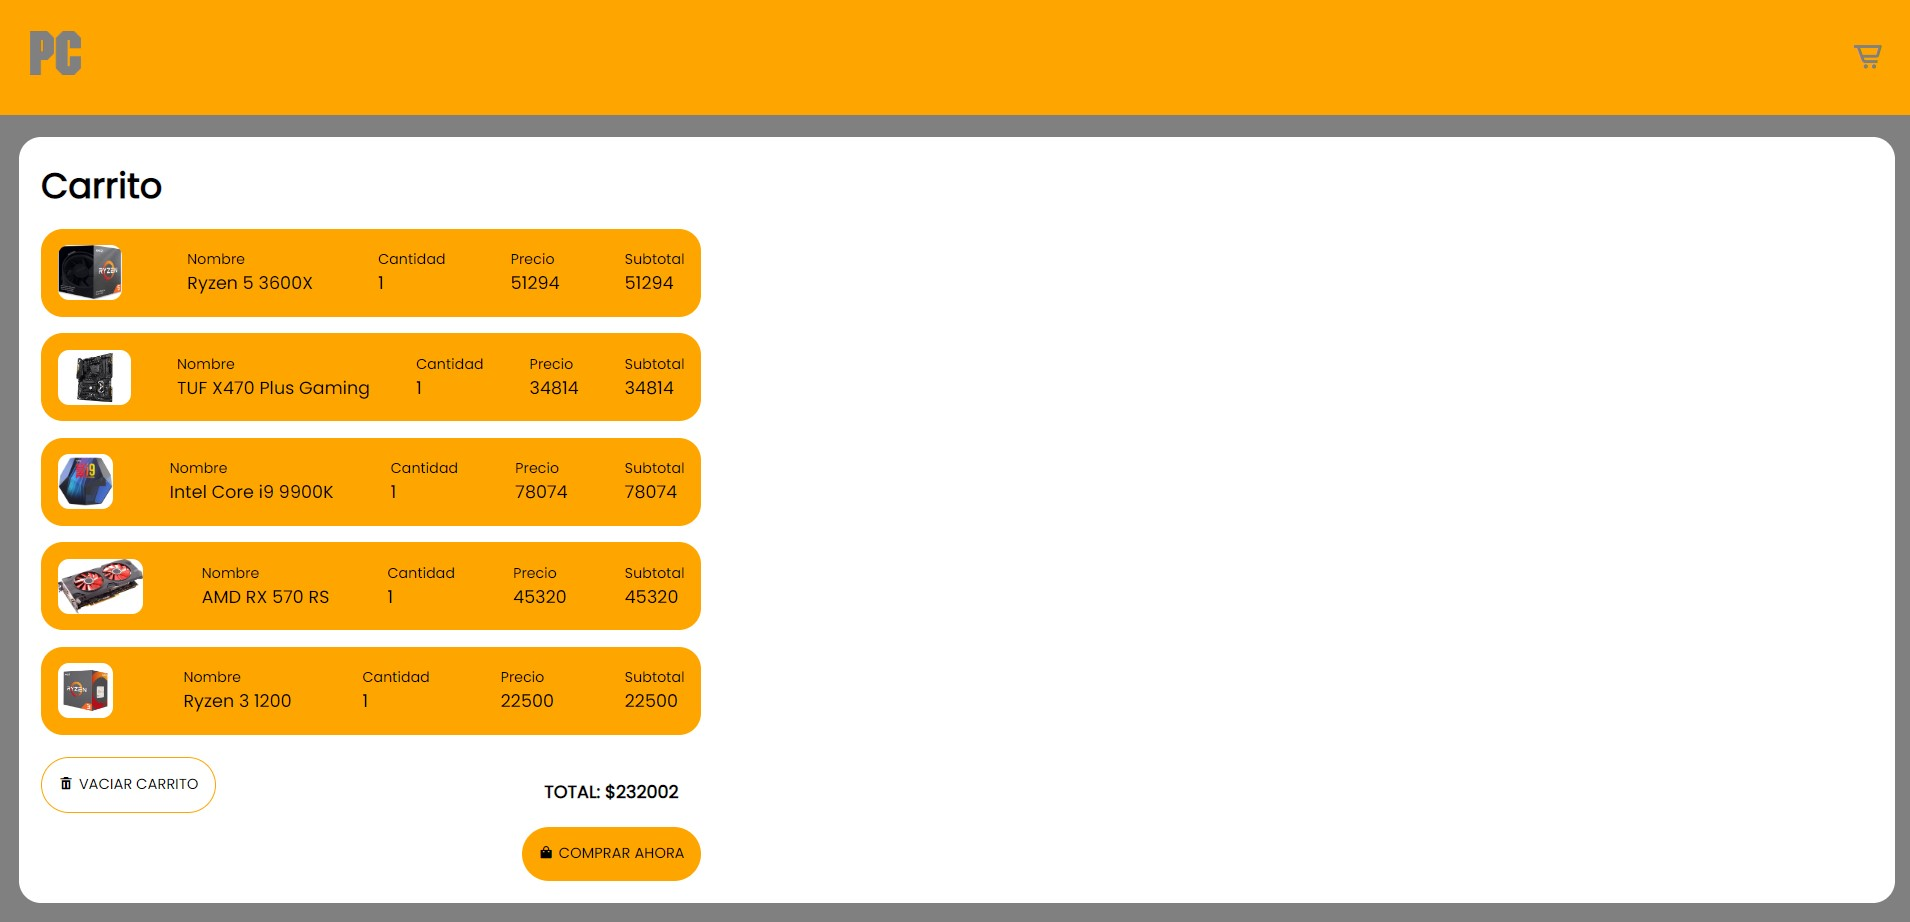
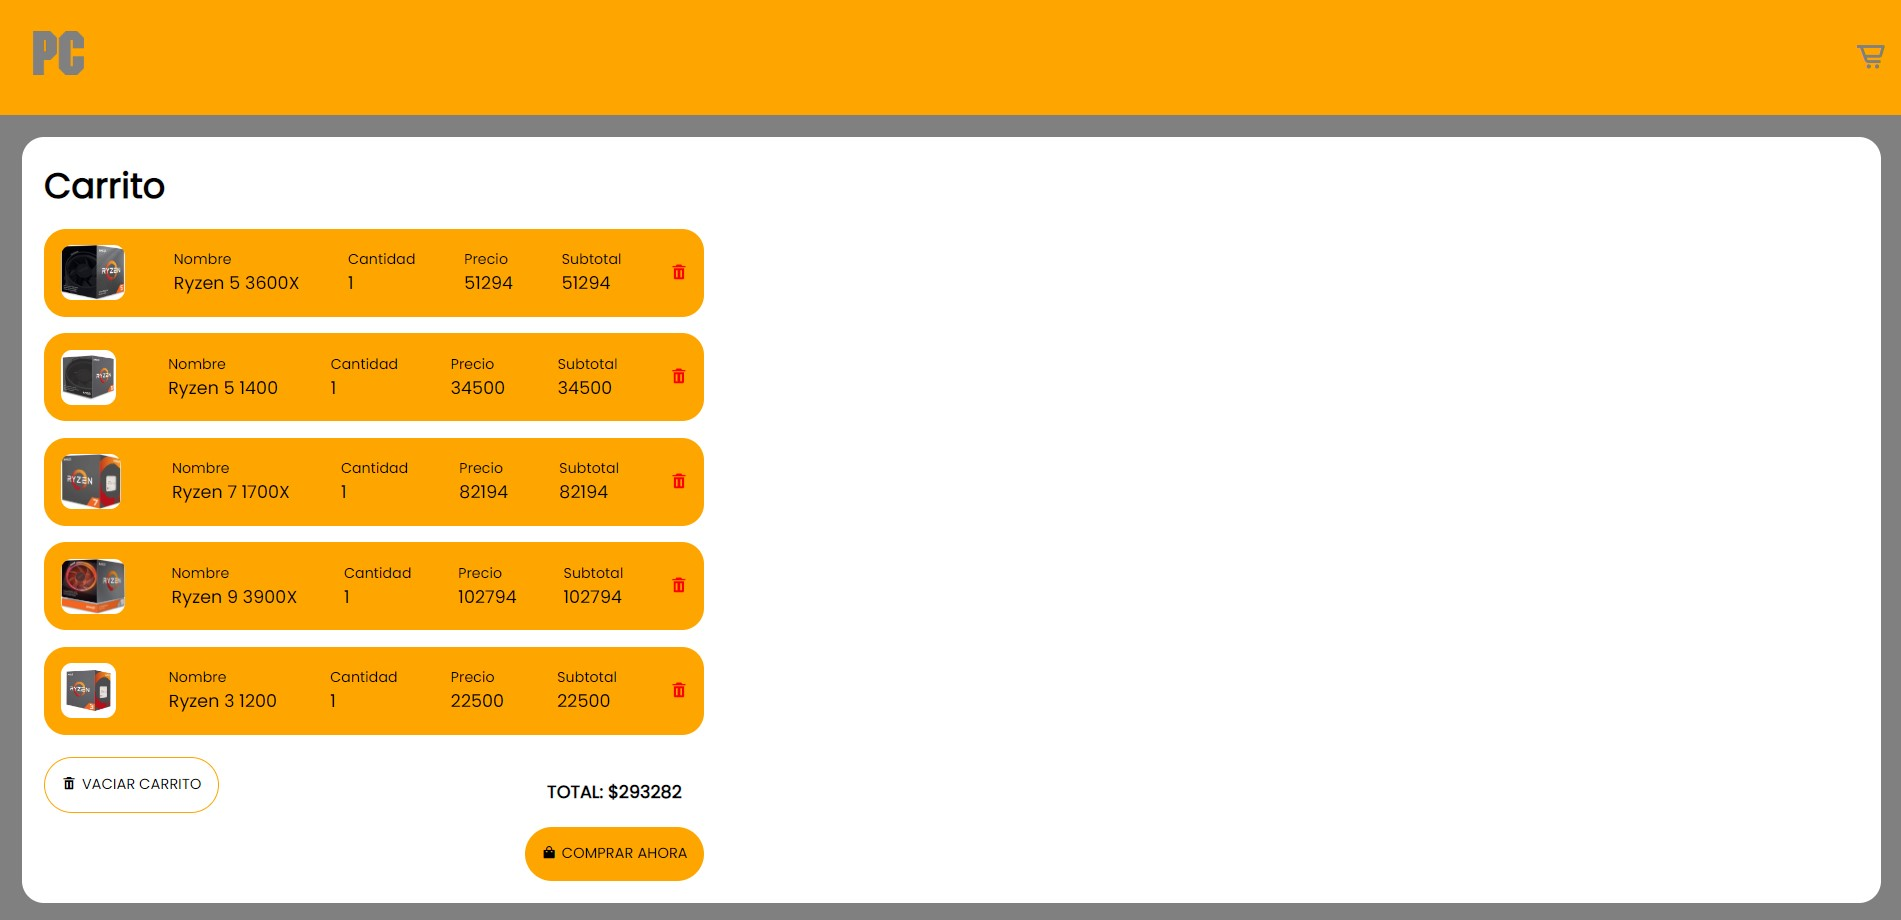
entrega final

diff --git a/js/carrito.js b/js/carrito.js
@@ -36,7 +36,8 @@ function mostrarProductosCarrito() {
             <div class="carrito-item-section">
                 <span class="section-title">Subtotal</span>
                 <span>${producto.precio * producto.cantidad}</span>
-            </div>`;
+            </div>
+            <i class='bx bxs-trash boton-eliminar' id="${producto.id}">`;
             carritoProductosDom.append(div);
         });
     } else {
@@ -45,9 +46,41 @@ function mostrarProductosCarrito() {
         carritoCompradoMensaje.classList.add("oculto")
     }
     actualizarTotal();
+    actualizarBotonesEliminar();
 }
 mostrarProductosCarrito()
 
+
+function actualizarBotonesEliminar() {
+    botonesEliminar = document.querySelectorAll(".boton-eliminar");
+    botonesEliminar.forEach(boton => {
+        boton.addEventListener("click", eliminarDelCarrito);
+    });
+}
+
+function eliminarDelCarrito(evento) {
+    Toastify({
+        text: "Producto eliminado",
+        duration: 1000,
+        newWindow: true,
+        close: false,
+        gravity: "bottom",
+        position: "right",
+        stopOnFocus: true,
+        offset: {
+            x: "25px"
+        },
+        style: {
+            background: "linear-gradient(to right, #FFA500, #f7b945)",
+        },
+        onClick: function(){} // Callback after click
+    }).showToast();
+    const id = evento.target.getAttribute("id");
+    const index = productosEnCarrito.findIndex(producto => producto.id === id);
+    productosEnCarrito.splice(index, 1);
+    localStorage.setItem("carrito", JSON.stringify(productosEnCarrito));
+    mostrarProductosCarrito();
+}
 
 function actualizarTotal() {
     const totalCalculado = productosEnCarrito.reduce((acc, producto) => acc + (producto.precio * producto.cantidad), 0);
@@ -57,10 +90,10 @@ function actualizarTotal() {
 vaciarCarritoBoton.addEventListener("click", vaciarCarrito)
 function vaciarCarrito() {
     Swal.fire({
-        title: 'Estas seguro?',
+        title: '¿Estas seguro?',
         icon: 'question',
         html:
-          'Se van a borrar todos tus productos.',
+          `Se van a borrar ${productosEnCarrito.reduce((acc, producto) => acc + producto.cantidad, 0)} productos.`,
         showCloseButton: true,
         showCancelButton: true,
         focusConfirm: false,

diff --git a/js/main.js b/js/main.js
@@ -1,12 +1,14 @@
 
-let productos = []
+let productos = [];
 
-fetch("./js/productos.json")
-    .then(response => response.json())
-    .then(data => {
-        productos = data;
-        mostrarProductos(productos)
-    })
+async function obtenerProductos() {
+    const response = await fetch("./js/productos.json");
+    const data = await response.json();
+    productos = data;
+    mostrarProductos(productos);
+}
+
+obtenerProductos();
 
 const productosContenedor = document.querySelector(".productos-contenedor")
 let botonesAgregar = document.querySelectorAll(".boton-agregar")
@@ -46,11 +48,11 @@ function agregarAlCarrito(evento) {
         duration: 1000,
         newWindow: true,
         close: false,
-        gravity: "top",
+        gravity: "bottom",
         position: "right",
         stopOnFocus: true,
         offset: {
-            y: "100px"
+            x: "10px"
         },
         style: {
           background: "linear-gradient(to right, #FFA500, #f7b945)",

diff --git a/carrito.html b/carrito.html
@@ -7,6 +7,8 @@
     <title>Tienda PC</title>
     <link href='https://unpkg.com/boxicons@2.1.1/css/boxicons.min.css' rel='stylesheet'>
     <link rel="stylesheet" href="css/main.css">
+    <link rel="stylesheet" type="text/css" href="https://cdn.jsdelivr.net/npm/toastify-js/src/toastify.min.css">
+    <script type="text/javascript" src="https://cdn.jsdelivr.net/npm/toastify-js" defer></script>
     <script src="https://cdn.jsdelivr.net/npm/sweetalert2@11" defer></script>
     <script src="js/main.js" defer></script>
     <script src="js/carrito.js" defer></script>

diff --git a/css/main.css b/css/main.css
@@ -166,6 +166,9 @@ body {
           flex-direction: column; }
           body main .carrito .carrito-productos .carrito-item .carrito-item-section .section-title {
             font-size: 13px; }
+        body main .carrito .carrito-productos .carrito-item .boton-eliminar {
+          color: #ff0000;
+          cursor: pointer; }
       body main .carrito .botones-carrito-contenedor {
         display: flex;
         flex-direction: row;

diff --git a/scss/main.scss b/scss/main.scss
@@ -202,6 +202,10 @@ body {
                             font-size: 13px;
                         }
                     }
+                    .boton-eliminar {
+                        color: #ff0000;
+                        cursor: pointer;
+                    }
                 }
             }
             .botones-carrito-contenedor {
